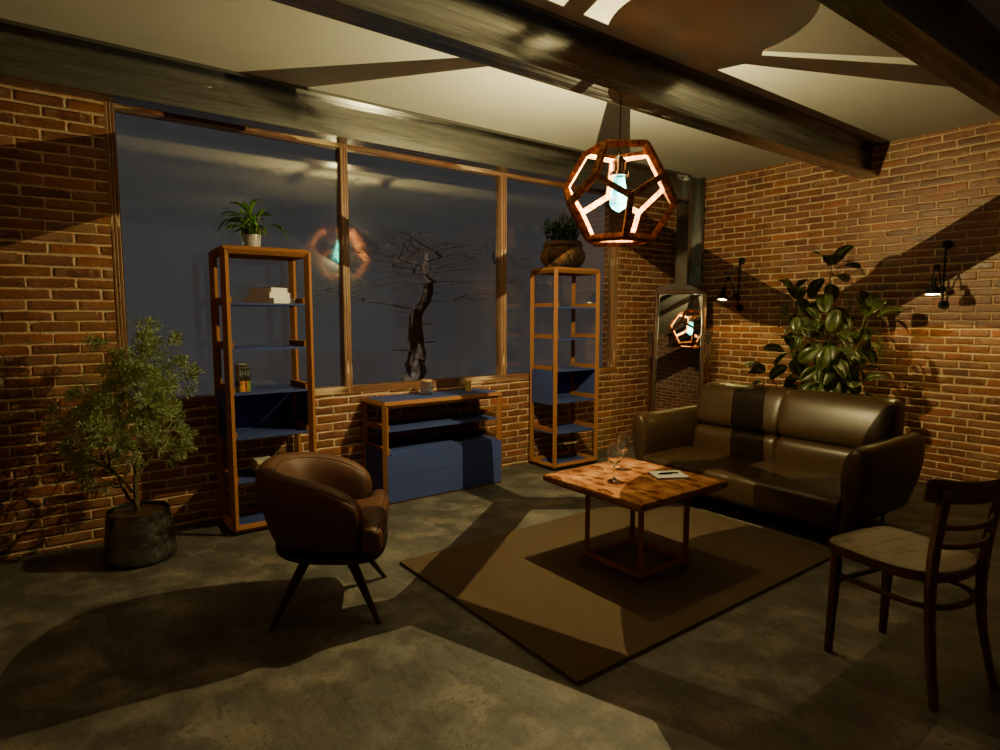
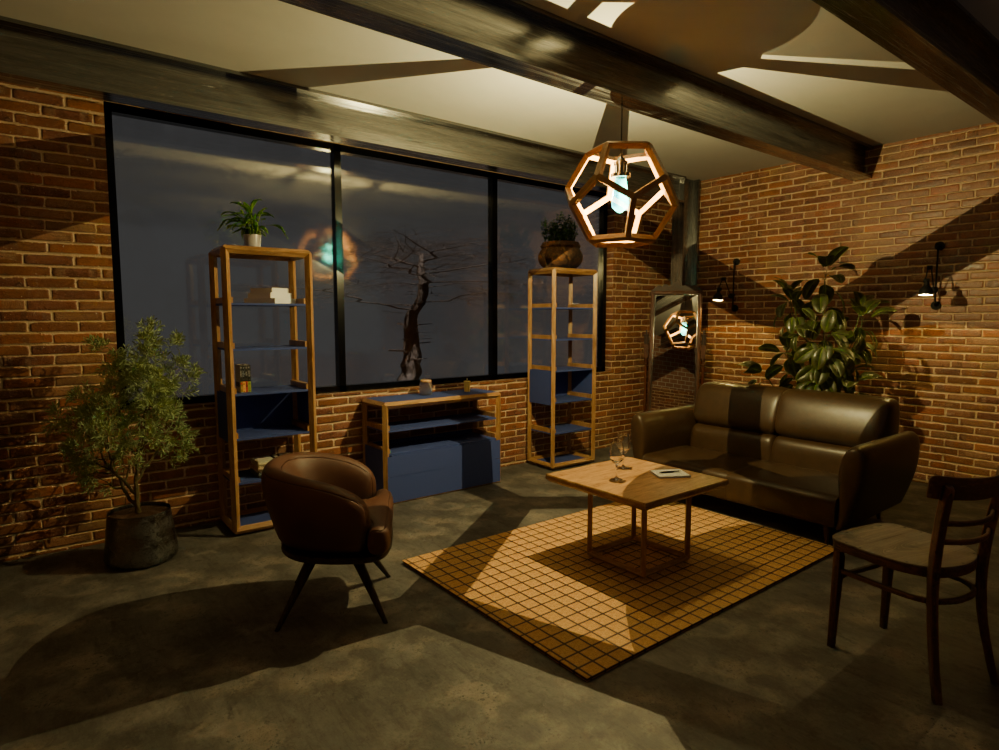
improvv

diff --git a/src/styles/site.css b/src/styles/site.css
@@ -4664,7 +4664,8 @@ body.config-lock {
 }
 
 .config-fab:hover .config-fab-tip,
-.config-fab:focus-visible .config-fab-tip {
+.config-fab:focus-visible .config-fab-tip,
+.config-fab-bar.is-intro .config-fab-tip {
   opacity: 1;
 }
 
@@ -4863,5 +4864,68 @@ body.config-lock {
 
   .configurator-app .viewport-hint {
     display: none;
+  }
+}
+
+@media (max-width: 1024px) and (orientation: landscape) {
+  .configurator-app.config-layout {
+    display: grid;
+    grid-template-columns: 1fr;
+    grid-template-rows: 1fr;
+  }
+
+  .configurator-app .control-panel {
+    display: block;
+    position: absolute;
+    inset: 0;
+    pointer-events: none;
+    height: 100% !important;
+    max-height: none;
+  }
+
+  .config-fab-bar {
+    flex-direction: column;
+    position: absolute;
+    top: 50%;
+    left: max(0.55rem, env(safe-area-inset-left, 0px));
+    transform: translateY(-50%);
+    grid-row: auto;
+    grid-column: auto;
+    justify-self: auto;
+    align-self: auto;
+    max-width: none;
+    overflow: visible;
+    padding: 0;
+  }
+
+  .config-fab-tip {
+    left: calc(100% + 0.5rem);
+    top: 50%;
+    transform: translateY(-50%);
+  }
+
+  .configurator-app .control-panel .panel-scroll {
+    grid-row: auto;
+    grid-column: auto;
+    position: absolute;
+    left: calc(3.5rem + env(safe-area-inset-left, 0px));
+    top: 0.75rem;
+    width: max-content;
+    min-width: 15.5rem;
+    max-width: min(22rem, calc(100vw - 5.2rem));
+    max-height: calc(100% - 5.2rem);
+    margin: 0;
+  }
+
+  .config-buy-float {
+    grid-row: auto;
+    grid-column: auto;
+    position: absolute;
+    left: auto;
+    right: max(0.75rem, env(safe-area-inset-right, 0px));
+    bottom: max(0.55rem, env(safe-area-inset-bottom, 0px));
+    align-self: auto;
+    justify-self: auto;
+    margin: 0;
   }
 }

diff --git a/src/components/ControlPanel.jsx b/src/components/ControlPanel.jsx
@@ -304,6 +304,7 @@ export default function ControlPanel() {
     scene: false,
     devis: false,
   }))
+  const [fabIntro, setFabIntro] = useState(false)
 
   useEffect(() => {
     if (editingUnitId && renameInputRef.current) {
@@ -322,6 +323,18 @@ export default function ControlPanel() {
       setDrawerWidthAlert(false)
     }
   }, [drawerWidthAlert, unit?.dims])
+
+  useEffect(() => {
+    try {
+      if (sessionStorage.getItem('philae-fab-tips')) return undefined
+      sessionStorage.setItem('philae-fab-tips', '1')
+    } catch {
+      /* private mode */
+    }
+    setFabIntro(true)
+    const timer = window.setTimeout(() => setFabIntro(false), 3000)
+    return () => window.clearTimeout(timer)
+  }, [])
 
   if (!unit) return null
 
@@ -364,7 +377,11 @@ export default function ControlPanel() {
         sheetOpen ? ' is-sheet-open' : ''
       }`}
     >
-      <div className="config-fab-bar" role="toolbar" aria-label={t('config.options')}>
+      <div
+        className={`config-fab-bar${fabIntro ? ' is-intro' : ''}`}
+        role="toolbar"
+        aria-label={t('config.options')}
+      >
         {fabItems.map((item) => (
           <button
             key={item.id}
